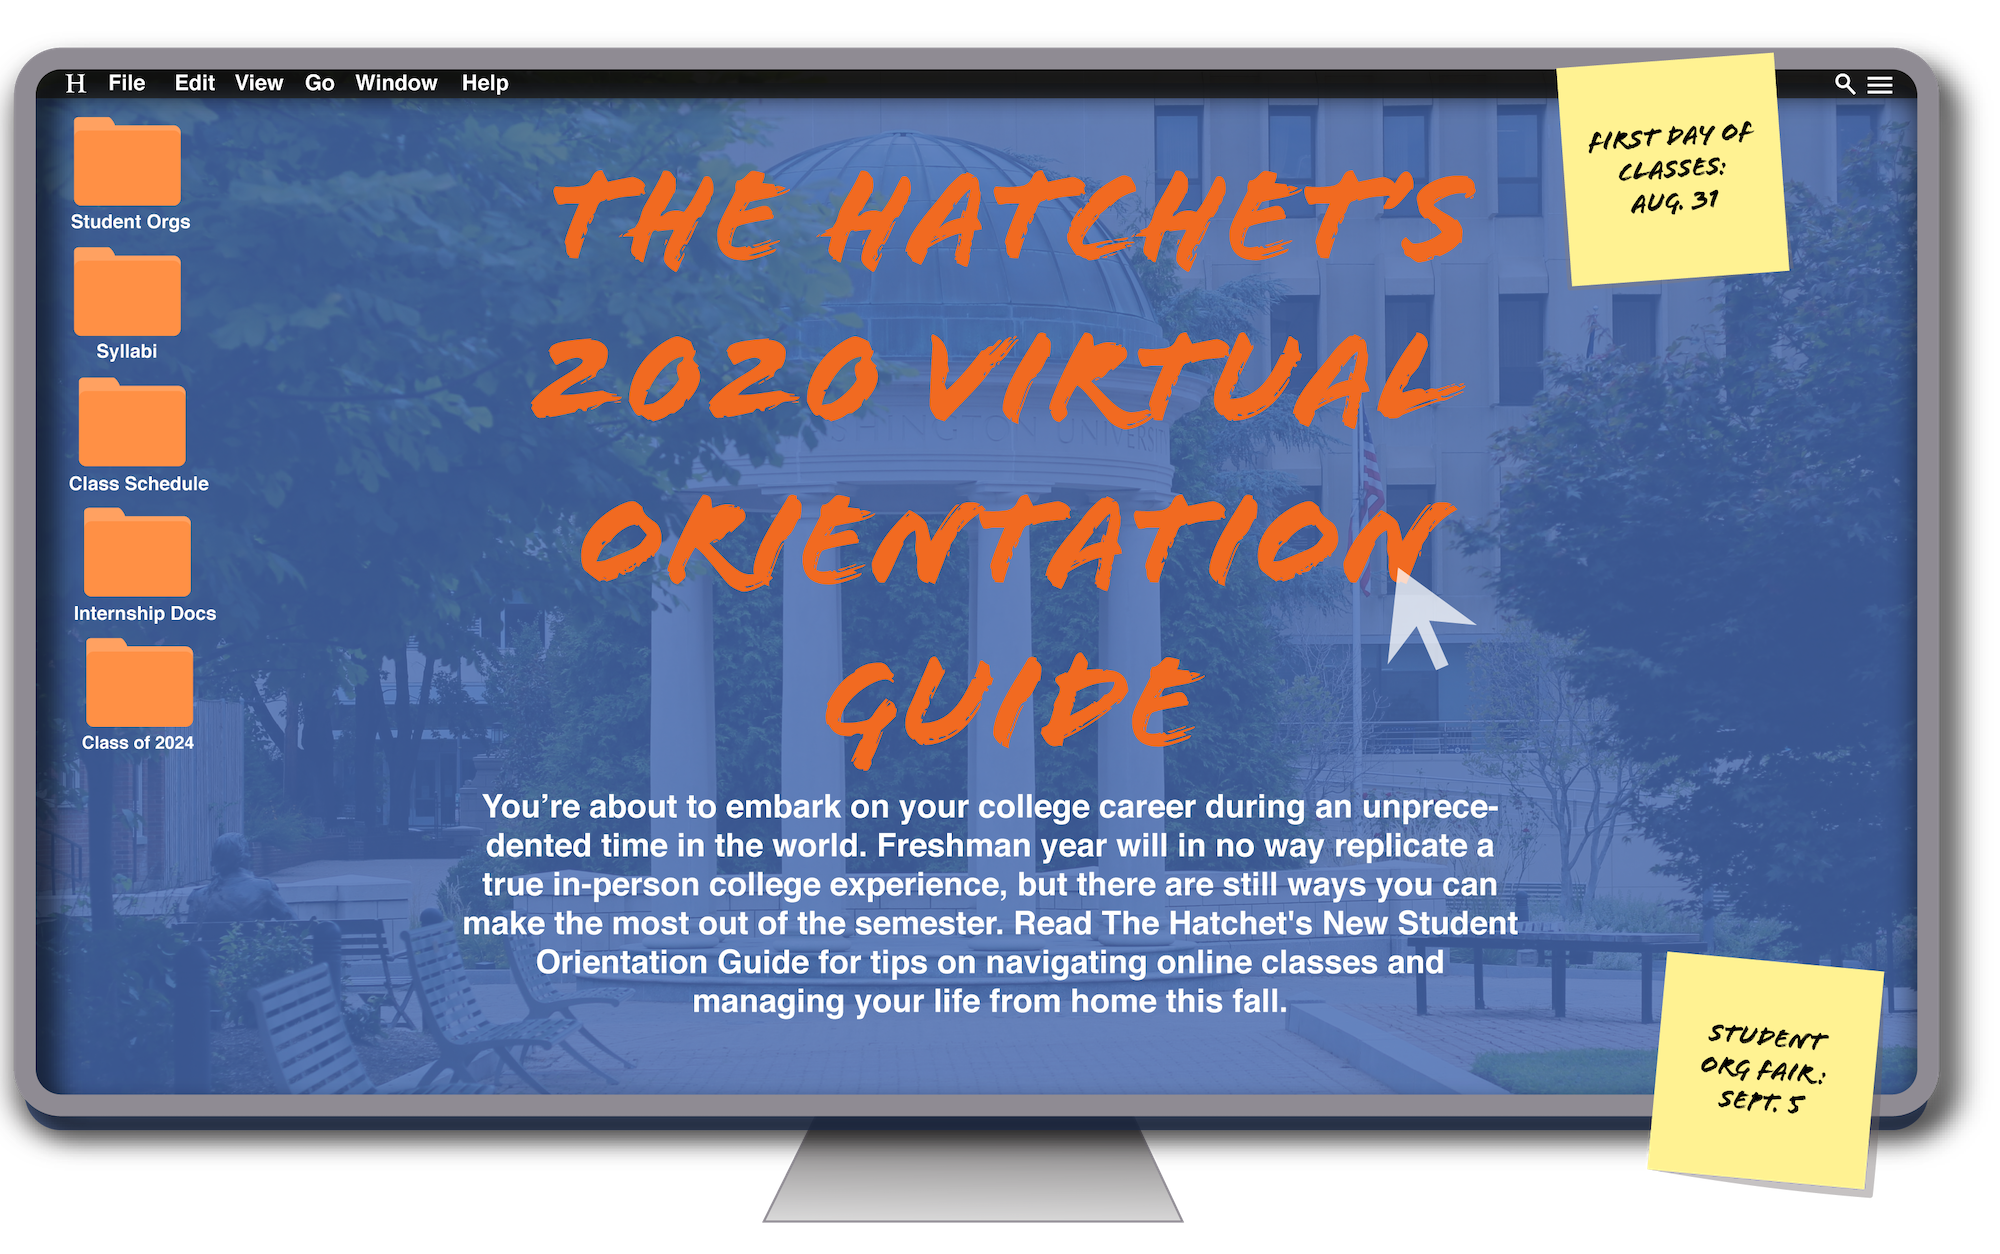
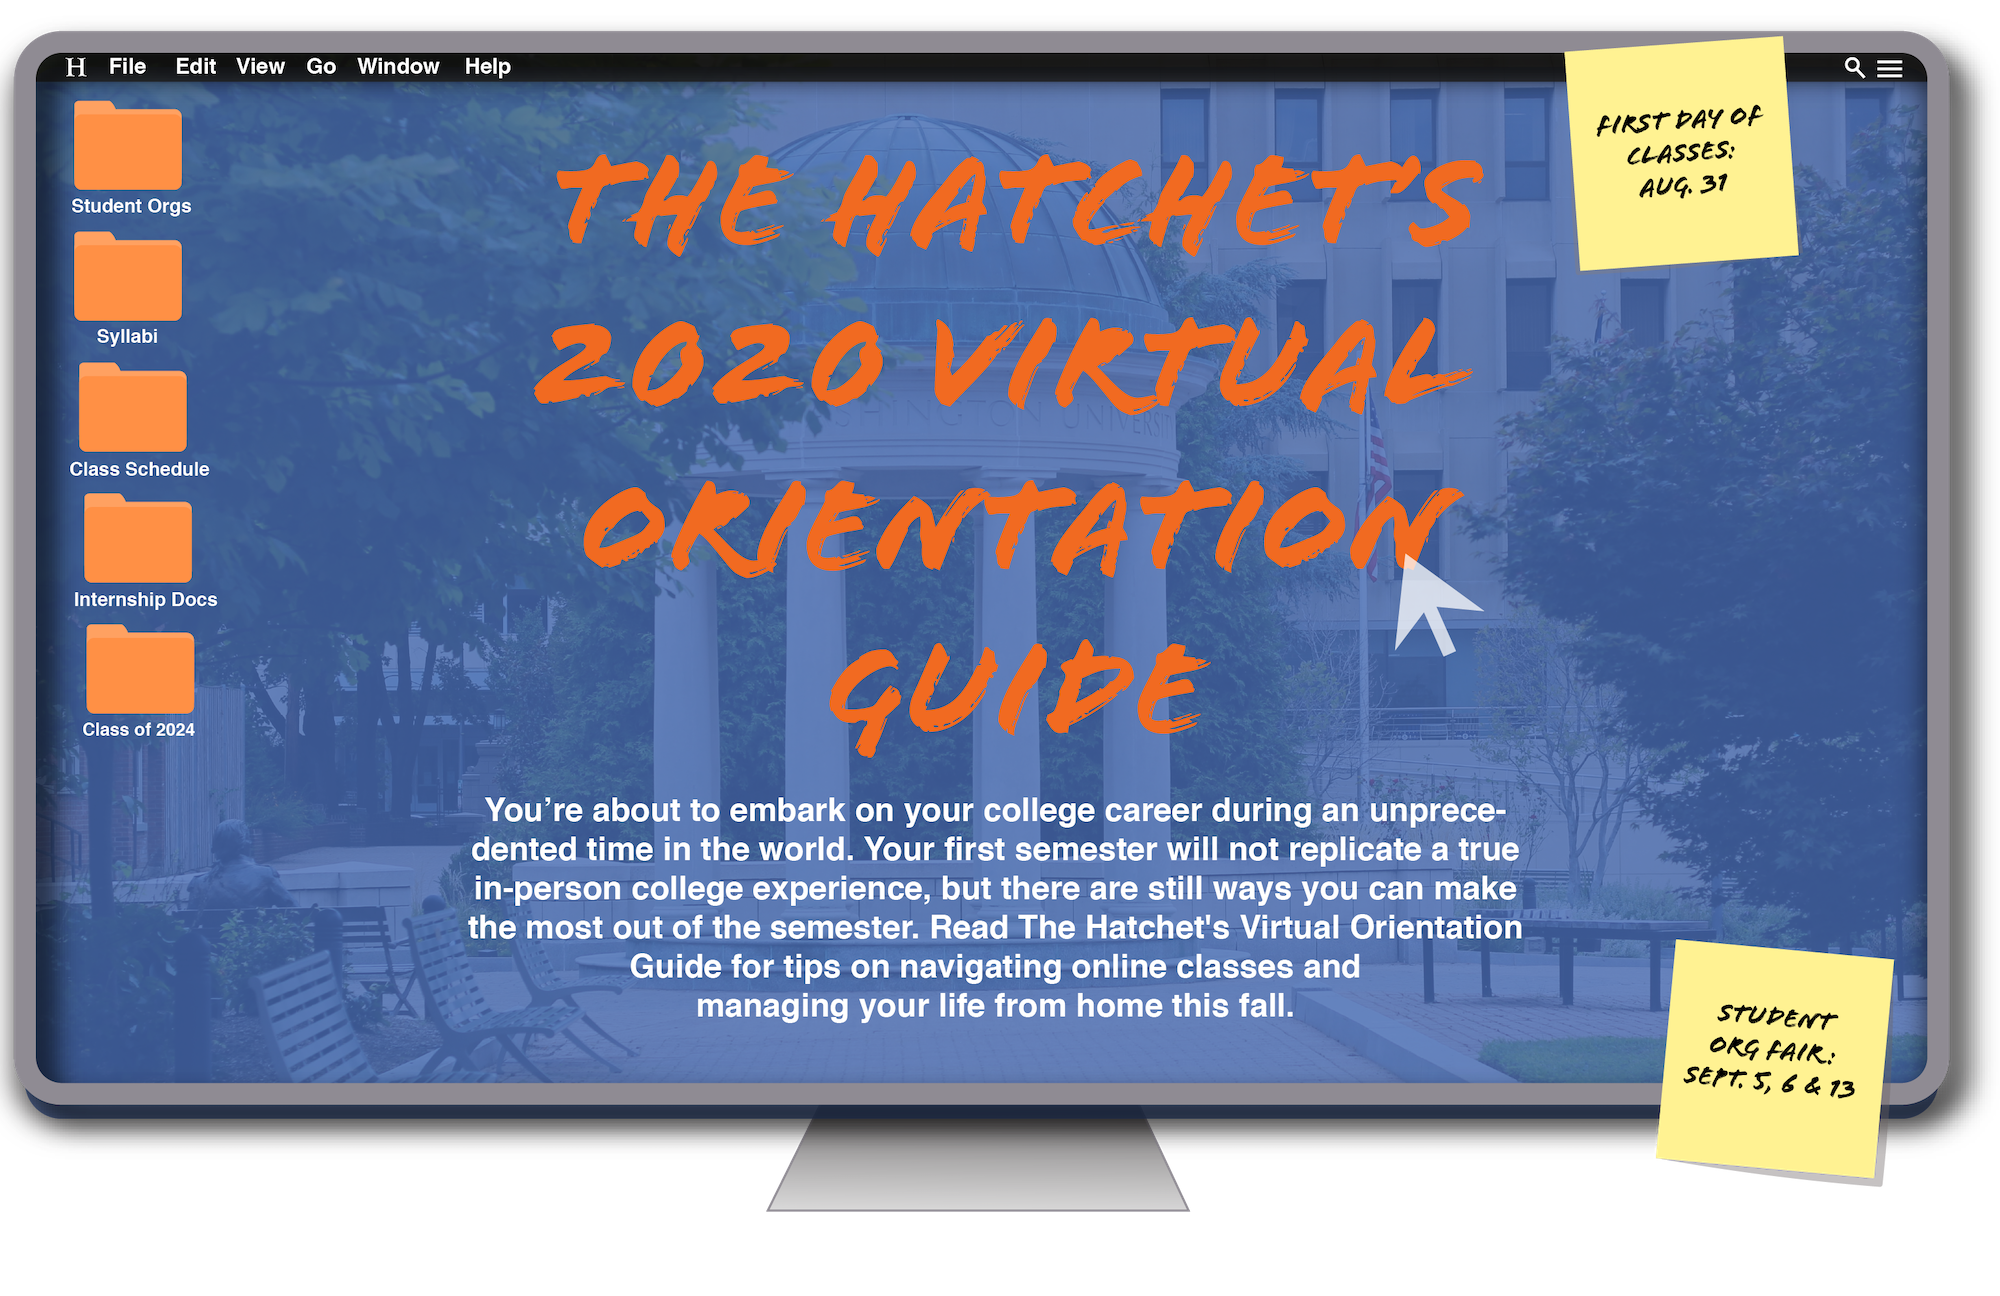
Screen changes

diff --git a/index.html b/index.html
@@ -644,10 +644,10 @@
 
 
         .threeboxgallery {
-         width: 50%;
-     }
+           width: 50%;
+       }
 
-     @media screen and (max-width: 900px) {
+       @media screen and (max-width: 900px) {
         .threeboxgallery {
             width: 100%;
         }
@@ -666,7 +666,7 @@
     }
 
     @media screen and (min-width: 900px) {
-     .basketball-guide-2017-container .story-box {
+       .basketball-guide-2017-container .story-box {
         min-width: 45%;
     }
 }
@@ -823,9 +823,9 @@
     font-size: 12pt;
     font-weight: 100;
     margin-top: 0.5em;
-    color: #000;
+    color: #000;This appears in the August 24, 2020 issue...
 }
-
+<p class="issue-link">This article appeared in the <a href="https://www.gwhatchet.com/issue/2020-08-24/"> August 24, 2020 issue</a> of the Hatchet.</p>
 
 .wrapper {
   position: absolute;
@@ -852,6 +852,14 @@ footer .footer-widgets ul.widgets li.widget_nav_menu li a {
     color: #000;
 }
 
+.issue-link {
+    color: black;
+    margin-left: 37%;
+}
+
+.issue-link a {
+    color: black;
+}
 
 </style>
 
@@ -859,6 +867,8 @@ footer .footer-widgets ul.widgets li.widget_nav_menu li a {
 
 
 <div class="guide-container basketball-guide-2017-container" style="margin-top: 4em;">
+
+    <p class="issue-link">This article appeared in the <a href="https://www.gwhatchet.com/issue/2020-05-18/"> May 18, 2020 issue</a> of the Hatchet.</p>
 
     <div class="guide-header-image-container">
         <img src="https://github.com/AaronKovacs/Hatchet-2020-Orientation-Guide/raw/master/2020-orientation-guide-header.png" class="guide-header-image"></img>
